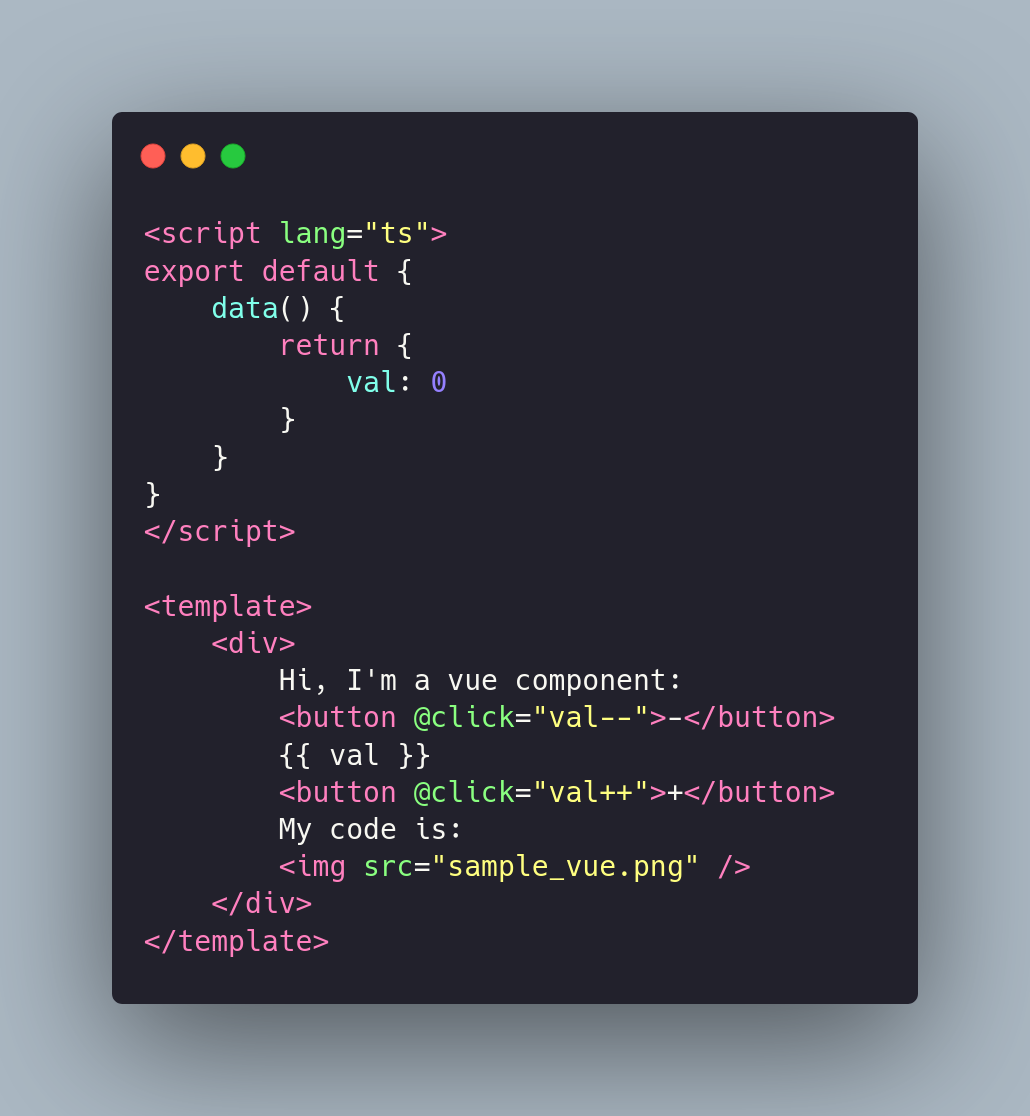
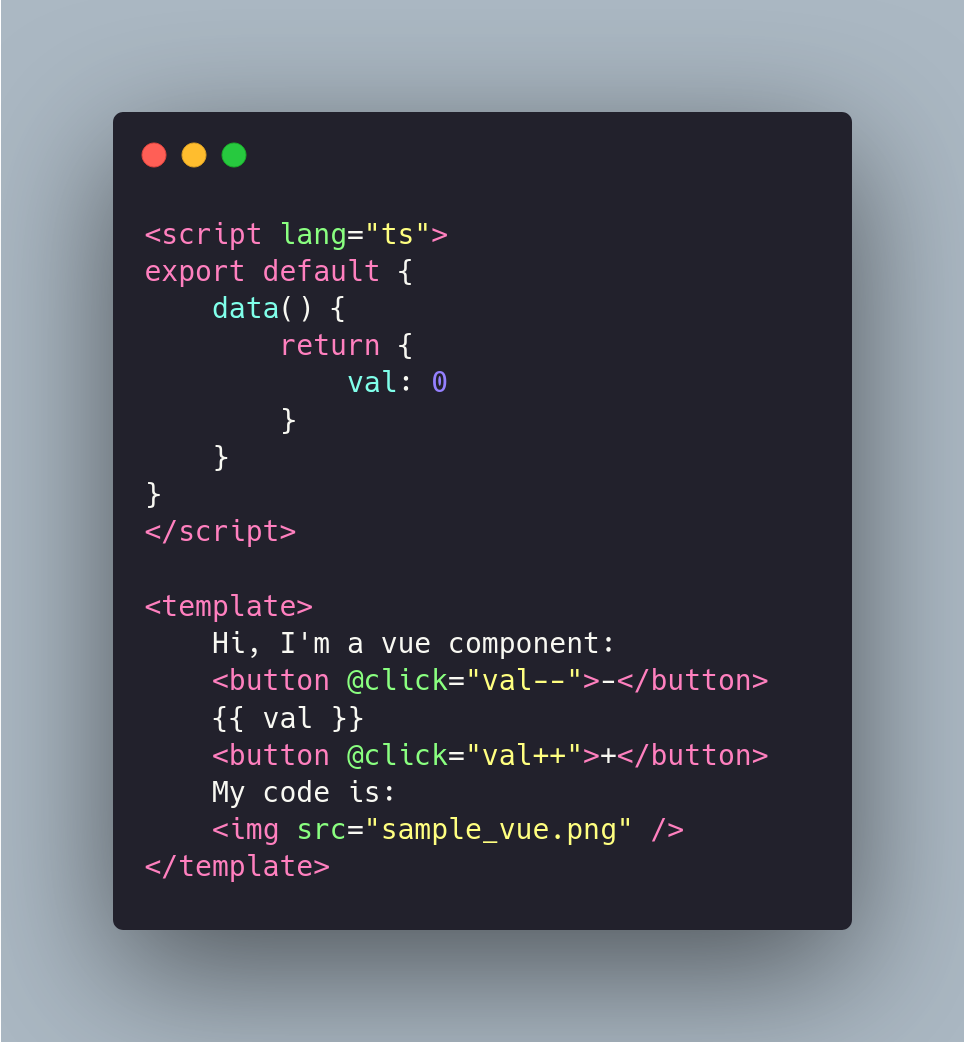
everything but lit is currently working

Changed region(s): [[0.0934, 0.0921, 0.9025, 0.9213], [0.1867, 0.3992, 0.2178, 0.4299]]

diff --git a/src/components/all-components/Sample_Lit.ts b/src/components/all-components/Sample_Lit.ts
@@ -1,0 +1,30 @@
+import { LitElement, html } from 'lit';
+import { customElement, property } from 'lit/decorators.js';
+
+@customElement('sample-lit')
+export class SampleLit extends LitElement {
+    @property({ type: Number })
+    val = 0;
+
+    inc() {
+        this.val++;
+    }
+
+    dec() {
+        this.val--;
+    }
+
+    render() {
+        return html`
+        <div>
+            Hi, I'm a lit component:
+            <button type="button" @click=${this.dec}>-</button>
+            ${this.val}
+            <button type="button" @click=${this.inc}>+</button>
+            My code is:
+            <img src="sample_lit.png"/>
+        </div>
+        `;
+    }
+}
+

diff --git a/src/components/all-components/Sample_Vue.vue b/src/components/all-components/Sample_Vue.vue
@@ -9,12 +9,10 @@ export default {
 </script>
 
 <template>
-    <div>
-        Hi, I'm a vue component:
-        <button @click="val--">-</button>
-        {{ val }}
-        <button @click="val++">+</button>
-        My code is:
-        <img src="sample_vue.png" />
-    </div>
+    Hi, I'm a vue component:
+    <button @click="val--">-</button>
+    {{ val }}
+    <button @click="val++">+</button>
+    My code is:
+    <img src="sample_vue.png" />
 </template>
